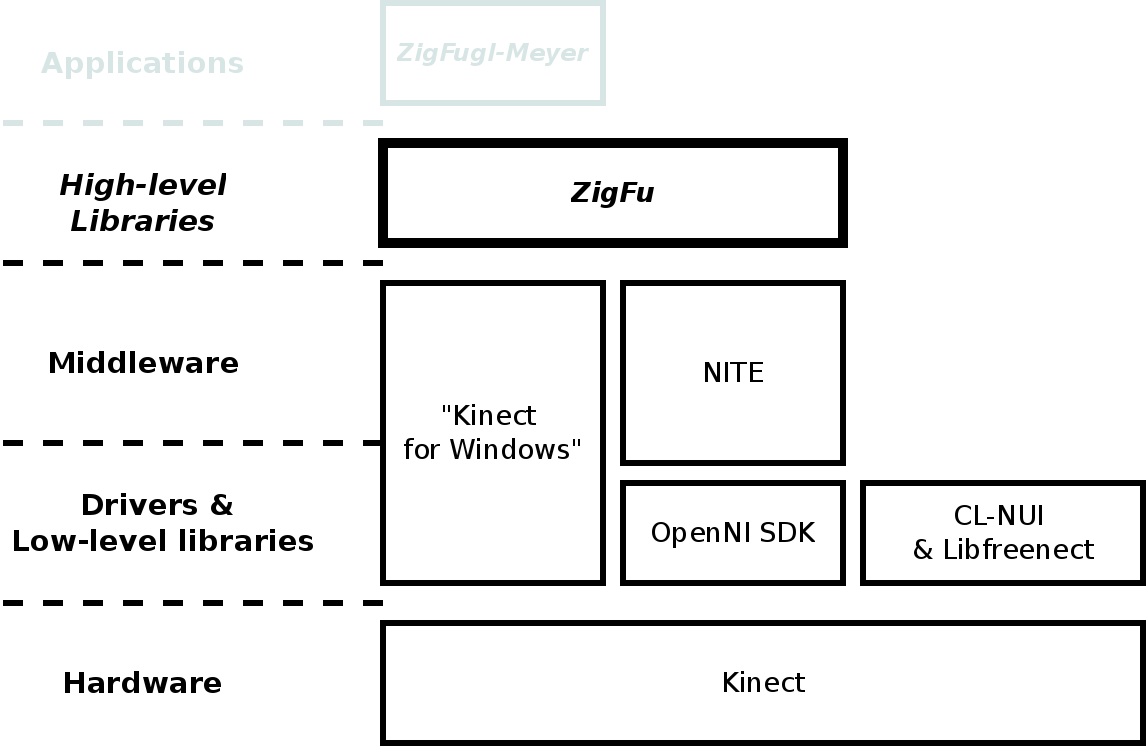
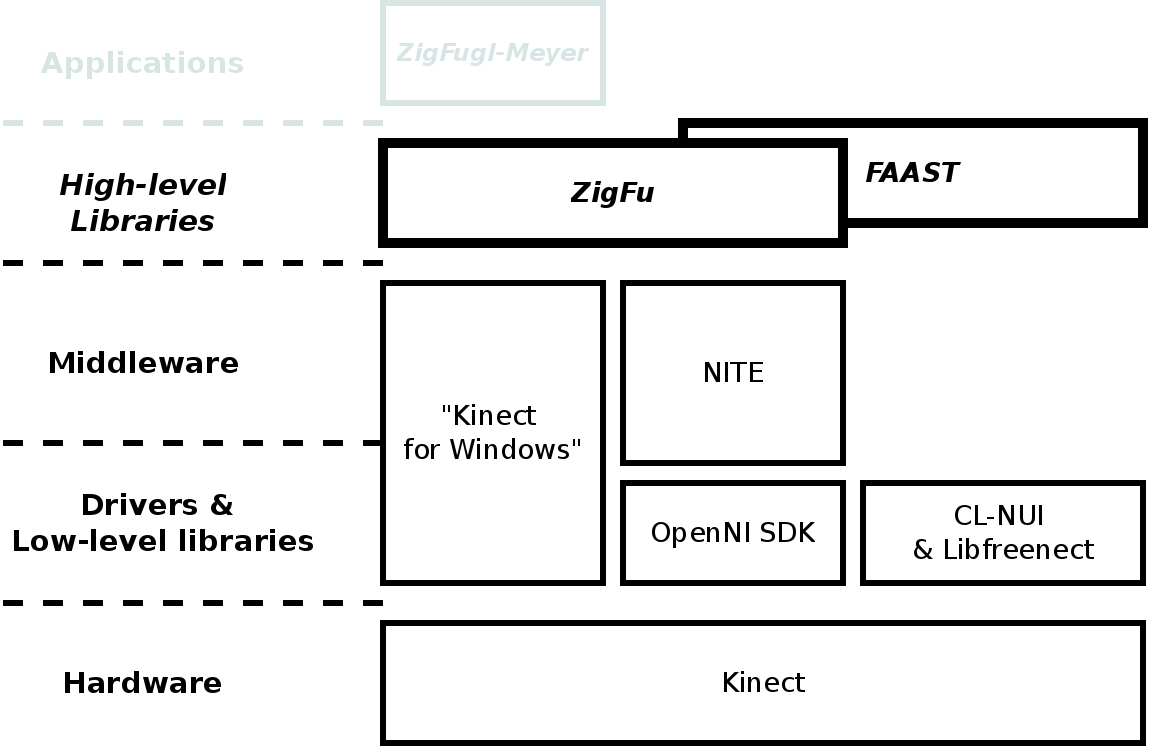
enriched sections on the Kinect

diff --git a/documents/presentation/kinect.tex b/documents/presentation/kinect.tex
@@ -105,14 +105,74 @@
 
 \subsection{Middleware}
 \begin{frame}{Middleware}
-
 \begin{center}
 \only<1>{\includegraphics[width=0.9\linewidth]{../images/technology_overview_1}}
 \only<2>{\includegraphics[width=0.9\linewidth]{../images/technology_overview_2}}
-\only<3>{\includegraphics[width=0.9\linewidth]{../images/technology_overview_3}}
 \end{center}
+\end{frame}
 
+\begin{frame}{Kinect for Windows~\cite{microsoft_vs_openni_2}}
+\vbox to 1.0\textheight
+{
+\begin{itemize}
+  \item<1-> Prédictif, gère mieux l'occlusion partielle (apprentissage)
+                ~\cite{how_you_become_the_controller}~\cite{shotton2011},
+  \only<1>
+  {
+    \vfill
+    \begin{center}
+    \includegraphics[width=0.7\linewidth]{../images/kinect_learning}
+    \end{center}
+  }
+  \item<2-> Détection et suivi faciale,
+  \only<2>
+  {
+    \vfill
+    \begin{center}
+    \includegraphics[width=0.5\linewidth]{../images/kinect_face_track}
+    \end{center}
+  }
+  \item<3-> Calibration plus rapide~(?).
 
+\end{itemize}
+\vfill
+}
+\end{frame}
+
+\begin{frame}{OpenNI et NITE~\cite{microsoft_vs_openni}}
+\vbox to 1.0\textheight
+{
+  \emph{OpenNI}
+  \begin{itemize}
+    \item<1-> Multiplatforme (Linux, Mac OS X),
+    \item<2-> Standard ouvert~: middlewares alternatifs tiers,
+    \only<2>
+    {
+      \vfill
+      \begin{center}
+      \includegraphics[width=0.8\linewidth]{../images/tiptep}
+      \end{center}
+    }
+  \end{itemize}
+  
+  \only<3->
+  {
+  \emph{NITE}
+  \begin{itemize}
+    \item<3-> Moins de resources consommées,
+    \item<4-> Moins de faux positives,
+    \item<5-> Détéction et suivie des \og{}gestures\fg{}.
+  \end{itemize}
+  }
+\vfill
+}
+\end{frame}
+
+\subsection{High-level libraries}
+\begin{frame}{High-level libraries}
+\begin{center}
+\includegraphics[width=0.9\linewidth]{../images/technology_overview_3}
+\end{center}
 \end{frame}
 
 \subsection{Zigfu}

diff --git a/documents/presentation/mise_en_oeuvre.tex b/documents/presentation/mise_en_oeuvre.tex
@@ -34,18 +34,18 @@
 \end{figure}
 \end{frame}
 
-\subsection{Menus}
-\begin{frame}{Menus}
-\begin{figure}
-\begin{center}
-\only<1>{\includegraphics[width=0.9\linewidth]{../images/menu}\caption{Diagramme d'état du menu de sélection} }
-\only<2>{\includegraphics[width=0.8\linewidth]{../images/menu2} \caption{Menu de sélection dans l'application}}
-\end{center}
-\end{figure}
-\end{frame}
+%\subsection{Menus}
+%\begin{frame}{Menus}
+%\begin{figure}
+%\begin{center}
+%\only<1>{\includegraphics[width=0.9\linewidth]{../images/menu}\caption{Diagramme d'état du menu de sélection} }
+%\only<2>{\includegraphics[width=0.8\linewidth]{../images/menu2} \caption{Menu de sélection dans l'application}}
+%\end{center}
+%\end{figure}
+%\end{frame}
 
 \subsection{ExerciseMonitor}
-\begin{frame}{Menus}
+\begin{frame}{ExerciseMonitor}
 \begin{figure}
 \begin{center}
 \includegraphics[width=0.8\linewidth]{../images/exercise_monitor}
@@ -81,7 +81,7 @@
   \begin{alertblock}{Limites}
   \begin{itemize}
   \item Précision insuffisante,
-  \item Pas de mesure des rotations,
+  \item Rotations déduites des positions,
   \item Zigfu.
   \end{itemize}
   \end{alertblock}
@@ -92,7 +92,7 @@
   \begin{itemize}
   \item Poursuite de l'étude en stage~:
   \begin{itemize}
-  \item \textbf{Geoffrey~:} aspects ludiques, difficulté dynamique,
+  \item \textbf{Geoffrey~:} paramétrage thérapeutique de jeu,
   \item \textbf{William~:} meilleur extraction de squelette. 
   \end{itemize}
   \end{itemize}

diff --git a/documents/presentation/references_presentation.tex b/documents/presentation/references_presentation.tex
@@ -79,7 +79,27 @@
   Will Hinchman, 20 Juin 2012\\
   \url{http://labs.vectorform.com/2011/06/windows-kinect-sdk-vs-openni-2/}
   \end{tiny}
+  
+\bibitem{microsoft_vs_openni_2}
+  \begin{tiny}
+  Brekel, 18 Juin 2011\\
+  \url{http://www.brekel.com/?p=677/}
+  \end{tiny}
+  
+\bibitem{how_you_become_the_controller}
+  \begin{tiny}
+  Engineering Blog - xbox.com\\
+  \url{http://123kinect.com/kinect-forums/thread-765.html}
+  \url{http://www.xbox.com/en-US/Live/EngineeringBlog/122910-HowYouBecometheController}
+  \end{tiny}
 
+\bibitem{shotton2011}
+  \begin{tiny}
+  \emph{Real-Time Human Pose Recognition in Parts from Single Depth Images}\\
+  Computer Vision and Pattern Recognition, Juin 2011\\
+  \url{http://research.microsoft.com/apps/pubs/default.aspx?id=145347}
+  \end{tiny}
+  
 \bibitem{openni_site}
   \emph{OpenNI - site web}\\
   \begin{tiny}
